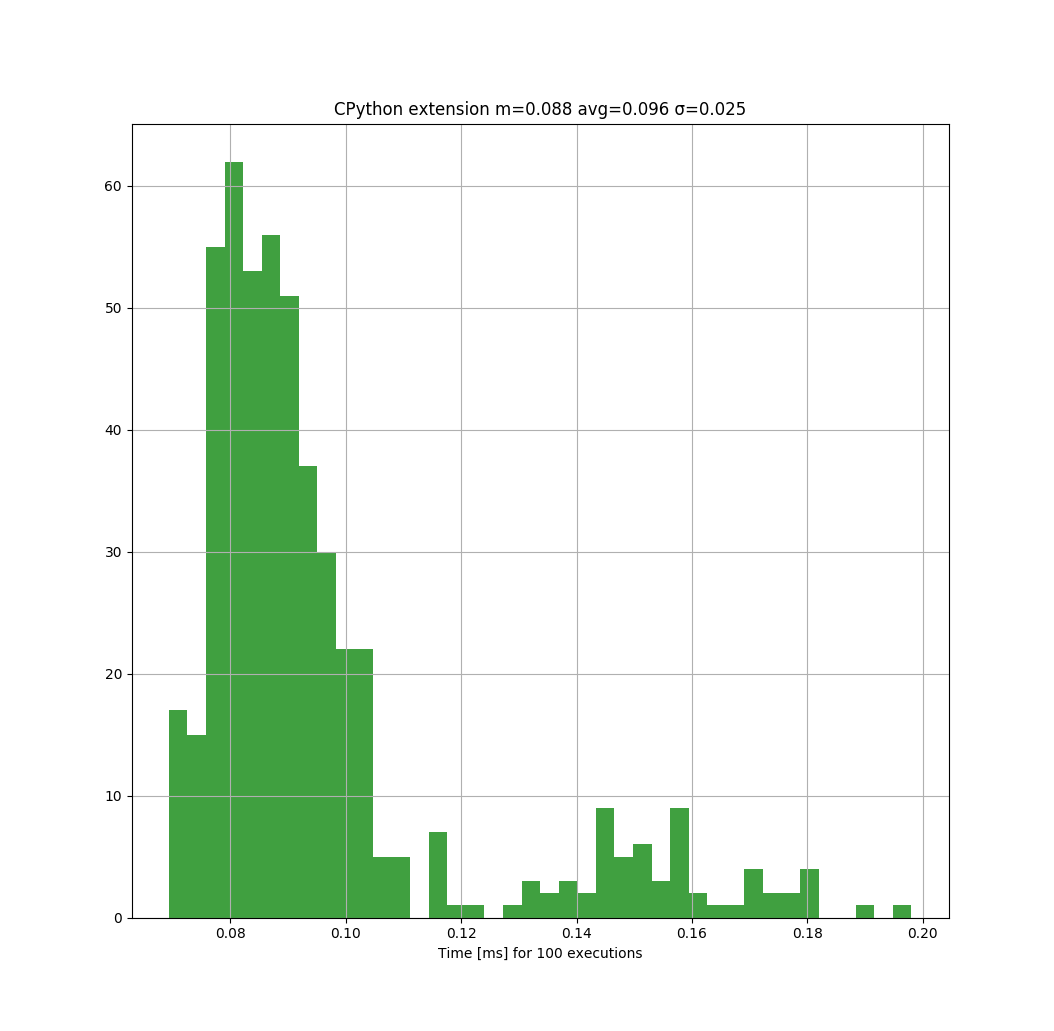
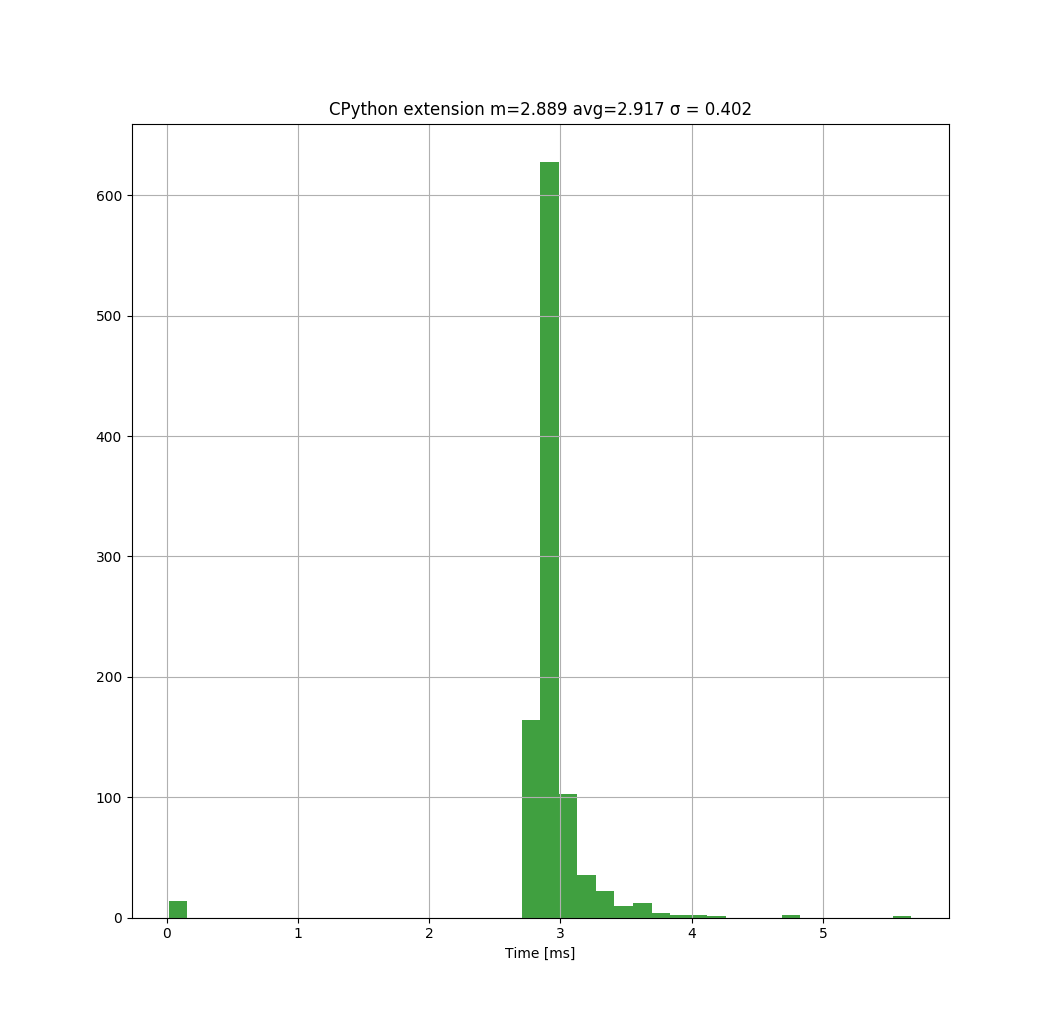
Update results

diff --git a/README.md b/README.md
@@ -41,17 +41,18 @@ print(path)
 
 To see the results, you can run `test.py`. Here are the results I got running it on my laptop.
 
-The benchmarks were run on a grid of **100x100** cells, with obstacles placed randomly (uniform) on the map with a probility **p=0.6**.
-The algorithm are tested on 500 different random maps. The algorithm is run 100 times. 
+The benchmarks were run on a grid of **100x100** cells, with obstacles placed randomly (uniform distribution) on the map with a probility of **p=0.8**.
+The algorithm was tested on 1000 times, with a different map for each test.
+
+Both algorithms (pathfinding lib and cpython extention) were tested against the same set of map.
 
 
 ```
-Minimum times:
-Extension        0.069 milliseconds for 100 iterations
-Python lib       0.762 milliseconds for 100 iterations
+Median:
+Extension        2.889 milliseconds
+Python lib     253.713 milliseconds
 ----------------------------------
-Median time:
-Extension is 1805 times faster than python.
+Extension is 87.8 times faster than python.
 ```
 
 Histogram using CPython extension:
